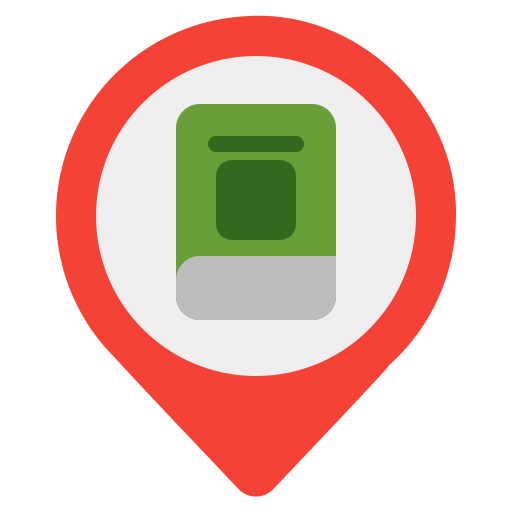
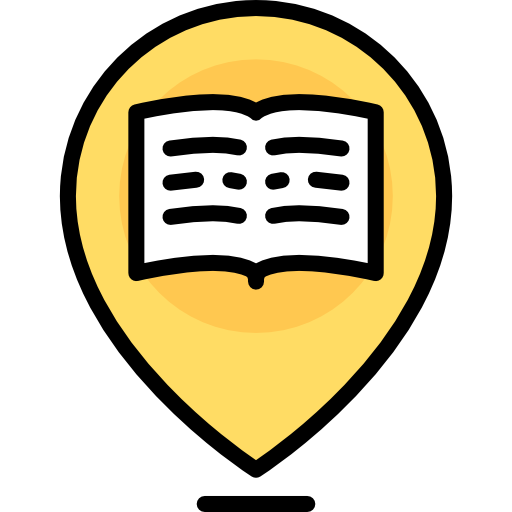
지도 마커 아이콘 수정 및 스터디현황지도 제거

diff --git a/cafemapapp/templates/cafemapapp/scamap.html b/cafemapapp/templates/cafemapapp/scamap.html
@@ -13,10 +13,10 @@
             <h2>스터디카페 찾기</h2>
         </div>
 
-        <div class="container" style="margin-top: 150px;">
+        <div class="container" style="margin-top: 100px;">
             <div class="studybtn" align="right">
                 <button onclick="location.href='/scainfo/all/'">목록으로 보기</button>
-                <button onclick="location.href='/study/'">개설 스터디 현황</button>
+                {% comment %} <button onclick="location.href='/study/'">개설 스터디 현황</button> {% endcomment %}
             </div>
         </div>
 
@@ -46,6 +46,19 @@
                 .services
                 .Geocoder();
 
+            // 마커 이미지의 이미지 주소입니다
+            var imageSrc1 = "/static/images/location.png";    
+            
+            // 마커 이미지의 이미지 크기 입니다
+            var imageSize1 = new kakao
+            .maps
+            .Size(65,65);
+
+        // 마커 이미지를 생성합니다
+            var markerImage1 = new kakao
+                .maps
+                .MarkerImage(imageSrc1, imageSize1);
+
 
             geocoder1.addressSearch("{{location.location}}", function (result1, status1) {
 
@@ -57,8 +70,11 @@
                             .LatLng(result1[0].y, result1[0].x);
 
                         var marker1 = new kakao.maps.Marker({
-                            position: coords1
+                            position: coords1, image: markerImage1
                         });
+
+                        // 결과값으로 받은 위치를 마커로 표시합니다
+                        
                         // 마커가 지도 위에 표시되도록 설정합니다
                         marker1.setMap(map);    
 
@@ -82,7 +98,7 @@
             {% endfor %}
 
             // 마커 이미지의 이미지 주소입니다
-            var imageSrc = "/static/images/marker3.png";
+            var imageSrc = "/static/images/marker.png";
 
             // 주소-좌표 변환 객체를 생성합니다
             var geocoder = new kakao
@@ -104,7 +120,7 @@
                         // 마커 이미지의 이미지 크기 입니다
                         var imageSize = new kakao
                             .maps
-                            .Size(70,70);
+                            .Size(65,65);
 
                         // 마커 이미지를 생성합니다
                         var markerImage = new kakao

diff --git a/cafemapapp/static/css/studycafeMap.css b/cafemapapp/static/css/studycafeMap.css
@@ -57,27 +57,6 @@
 .customoverlay .title {display:block;text-align:center;background:#fff;margin-right:35px;padding:10px 15px;font-size:14px;font-weight:bold;}
 .customoverlay:after {content:'';position:absolute;margin-left:-12px;left:50%;bottom:-12px;width:22px;height:12px;background:url('https://t1.daumcdn.net/localimg/localimages/07/mapapidoc/vertex_white.png')}
 
-/*
-.homebtn{
-    width: 40px;
-    height: 30px; 
-}
-*/
-
-/*
-h2 { 
-    margin-top: 0;
-    margin-bottom: 10px;
-    text-align: center; 
-}
-body{ background-color: #D9D1C7;}
-*/
-
-/* .home{
-    width: 60%;
-    margin: auto;
-    margin-bottom: 0;
-} */
 
 .studybtn{
     width:60%;

diff --git a/cafemapapp/templates/cafemapapp/onemarker.html b/cafemapapp/templates/cafemapapp/onemarker.html
@@ -96,7 +96,7 @@
                         // 마커 이미지의 이미지 크기 입니다
                         var imageSize = new kakao
                             .maps
-                            .Size(70,70);
+                            .Size(65,65);
 
                         // 마커 이미지를 생성합니다
                         var markerImage = new kakao

diff --git a/cafeProject/urls.py b/cafeProject/urls.py
@@ -29,7 +29,7 @@ urlpatterns = [
     path('userlocation/', include('userlocation.urls')),
     path('board/', include('board.urls')),
     #path('map/',cafemapapp.views.map, name='map'),
-    path('study/',cafemapapp.views.study, name='study'),
+    #path('study/',cafemapapp.views.study, name='study'),
     path('scamap/',include('cafemapapp.urls')),
     #path('sca/',include('cafemapapp.urls')),
     path('scainfo/',include('scainfoapp.urls')),
